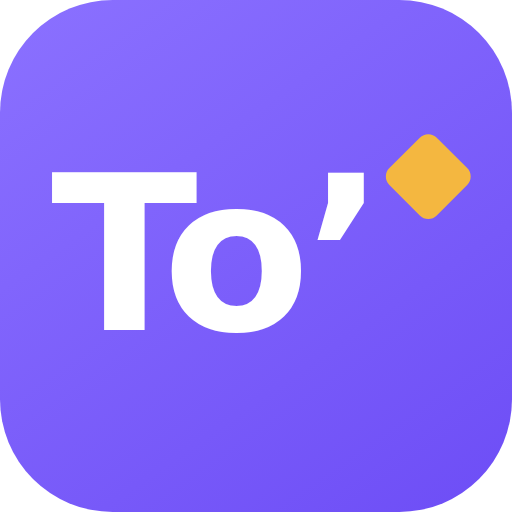
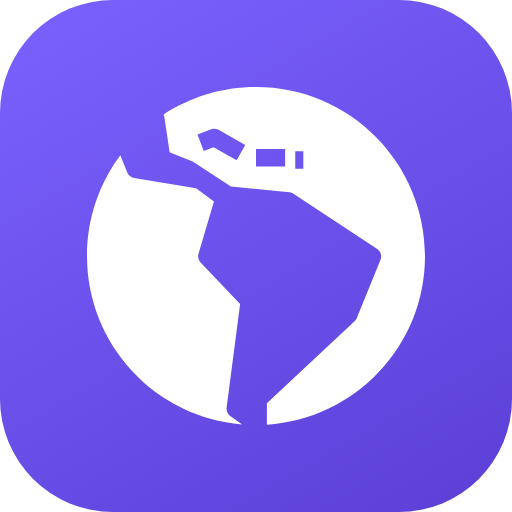
Logotipo real en toda la app + pie del móvil apilado
PIE DEL MÓVIL: los enlaces legales se iban a un segundo renglón pegados al
borde derecho y parecía un error. En el teléfono el pie ahora se apila a la
izquierda —marca, copyright, enlaces—; a partir de 600px vuelve a la fila
única.

LOGOTIPO: hasta hoy la marca terminaba en un rombo ámbar que era un marcador
de posición. El logotipo real (el globo con América en negativo) pasa a ser
`LogoMark` en `components/ui`, una sola pieza que usan la portada, la cabecera
de la app, la pantalla de entrar, el alta de negocio, las páginas legales, el
panel de negocio y el panel de administración. Sobre fondo oscuro va en el
morado claro de la marca, no en el de marca, que ahí no contrasta.

ICONOS: `scripts/make-brand-assets.mjs` genera los seis PNG a partir del MISMO
trazo — pestaña del navegador, iconos de instalación 192/512, maskable, icono
de iOS e imagen para redes. Antes eran un "To'" con un rombo dibujado aparte y
no había forma de regenerarlos. La receta (fondo morado en degradado +
logotipo blanco) se eligió comparando cuatro variantes: es la única que se
sigue leyendo a 32px, el tamaño real de la pestaña.

Dos detalles que costaron y quedan documentados en el script: la tipografía se
incrusta en base64 porque el HTML se inyecta con setContent y desde
`about:blank` el navegador no carga hojas de estilo de otro origen (la imagen
para redes salía con una serif de reserva, y fallaba en silencio); y hay que
esperar a `document.fonts.ready`, que `networkidle` no garantiza.
[…]

diff --git a/apps/web/src/screens/Landing.tsx b/apps/web/src/screens/Landing.tsx
@@ -49,6 +49,7 @@ import { useApp } from '@/lib/state';
 import { useAuth } from '@/lib/auth';
 import { FEED_SAMPLE, FEED_KIND } from '@/lib/landing';
 import { CityModal } from '@/components/CityModal';
+import { LogoMark } from '@/components/ui';
 
 type Vertical = 'all' | 'food' | 'serv' | 'evt' | 'rent' | 're' | 'auto' | 'job';
 
@@ -174,23 +175,19 @@ export function LandingScreen() {
 
   const firstName = (profile?.display_name ?? '').trim().split(' ')[0];
 
-  // Marca: el logotipo del handoff (`uploads/logo_tolatino_color.svg`, 482×482,
-  // trazo único) SIEMPRE después de la palabra, como indica §Icons.
-  const LogoMark = () => (
-    <svg viewBox="0 0 482 482" fill="none" aria-hidden focusable="false"
-         style={{ width: 'calc(var(--bs) * .88)', height: 'calc(var(--bs) * .88)', marginLeft: 'calc(var(--bs) * .25)', alignSelf: 'center', flex: 'none' }}>
-      <path fill="#7B61FF" d="M241 0C374.101 0 482 107.899 482 241C482 368.894 382.378 473.519 256.5 481.509V450.929L381.533 334.135C382.856 332.899 383.895 331.39 384.577 329.714L418.577 246.214C420.824 240.696 418.864 234.358 413.894 231.072L294.394 152.072C292.802 151.02 290.991 150.347 289.102 150.103L288.723 150.06L205.263 141.857L151.825 107.028C151.144 106.585 150.422 106.208 149.668 105.904L117.808 93.0771L110.363 43.1562C110.159 41.785 109.729 40.4722 109.104 39.2637C147 14.4373 192.314 0 241 0ZM57.3691 122.079C58.9823 126.176 62.6321 129.122 66.9775 129.835L155.481 144.344L181.041 163.33L159.012 237.961C157.746 242.248 158.867 246.885 161.95 250.122L218.336 309.304L199.104 457.391C198.508 461.983 200.499 466.528 204.279 469.203L221.23 481.199C97.3773 471.143 0 367.444 0 241C0 187.108 17.6887 137.348 47.5771 97.209L57.3691 122.079ZM297 91.5V116.5H308.5V91.5H297ZM241 113.5H282.5V88.5H241V113.5ZM187.655 61.1211C184.505 59.3389 180.743 59.0113 177.341 60.2119L177.013 60.333L157.513 67.833L166.487 91.167L180.48 85.7842L213.345 104.379L225.655 82.6211L187.655 61.1211Z" />
-    </svg>
-  );
-  // El tamaño viaja como variable CSS (`--bs`) en vez de como `fontSize` en
-  // línea: así una media query puede encogerlo en teléfonos estrechos, donde la
-  // marca + el idioma + el botón de negocio no caben en la barra.
+  // Marca: palabra + logotipo. El trazo vive en `components/ui` (LogoMark), que
+  // es la MISMA pieza que usan la cabecera de la app, el panel de negocio, el
+  // panel de administración y los iconos generados. Aquí el tamaño viaja como
+  // variable CSS (`--bs`) para que una media query pueda encogerlo en teléfonos
+  // estrechos, donde la marca + el idioma + el botón de negocio no caben.
   const Brand = ({ size }: { size: number }) => (
     <span className="tl-brand flex flex-none items-baseline"
           style={{ letterSpacing: '-.03em', ['--bs' as string]: `${size}px` }}>
       <span className="font-extrabold text-ink" style={{ fontSize: 'var(--bs)' }}>To&rsquo;</span>
       <span className="font-extrabold text-primary" style={{ fontSize: 'var(--bs)' }}>Latino</span>
-      <LogoMark />
+      <span className="tl-logo self-center" style={{ marginLeft: 'calc(var(--bs) * .25)' }}>
+        <LogoMark size={Math.round(size * 0.88)} />
+      </span>
     </span>
   );
 
@@ -513,13 +510,17 @@ export function LandingScreen() {
 
       {/* ═════════════ PIE ═════════════ */}
       <footer className={`bg-page pt-[clamp(40px,6vw,72px)] ${gutter}`}>
-        <div className="mx-auto flex max-w-[1080px] flex-wrap items-center gap-[14px] pt-5"
+        {/* En el teléfono el pie se APILA a la izquierda —marca, copyright,
+            enlaces—: en una sola fila los enlaces legales se iban a un segundo
+            renglón pegados al borde derecho y parecía un error de maquetación.
+            A partir de 600px vuelve a la fila única del handoff. */}
+        <div className="mx-auto flex max-w-[1080px] flex-col items-start gap-3 pt-5 min-[600px]:flex-row min-[600px]:flex-wrap min-[600px]:items-center min-[600px]:gap-[14px]"
              style={{ borderTop: '1px solid rgba(30,27,46,.07)', paddingBottom: 'calc(24px + env(safe-area-inset-bottom))' }}>
           <Brand size={18} />
           <span className="text-[11.5px] font-semibold text-muted">© {new Date().getFullYear()} To&rsquo;Latino</span>
           {/* Los enlaces legales no están en el handoff, pero la ley sí los pide
               y las dos páginas ya existen: se añaden sin tocar su composición. */}
-          <nav aria-label={L('Legal', 'Legal')} className="ml-auto flex flex-wrap items-center gap-x-4 gap-y-1">
+          <nav aria-label={L('Legal', 'Legal')} className="flex flex-wrap items-center gap-x-4 gap-y-1 min-[600px]:ml-auto">
             <a href="/terminos/" className="tl-focus text-[11.5px] font-semibold text-muted hover:text-primary-dark">{L('Términos', 'Terms')}</a>
             <a href="/privacidad/" className="tl-focus text-[11.5px] font-semibold text-muted hover:text-primary-dark">{L('Privacidad', 'Privacy')}</a>
           </nav>
@@ -647,6 +648,7 @@ export function LandingScreen() {
            porque el botón de negocio es una de las dos conversiones de la página. */
         @media (max-width: 400px) {
           .tl-brand { --bs: 19px !important; }
+          .tl-logo svg { width: 17px !important; height: 17px !important; }
           .tl-bar { gap: 8px !important; padding-left: 14px !important; padding-right: 14px !important; }
           .tl-langpill button { padding-left: 10px !important; padding-right: 10px !important; }
           .tl-btn-biz { padding: 9px 10px !important; gap: 5px !important; }

diff --git a/apps/web/src/components/ui.tsx b/apps/web/src/components/ui.tsx
@@ -6,8 +6,28 @@ import { IconX as X } from '@tabler/icons-react';
 import type { CSSProperties, ReactNode } from 'react';
 import { useScrollLock } from '@/lib/scrollLock';
 
-/** CSS wordmark: To'(ink) + Latino(purple) + amber diamond. */
+/**
+ * Logotipo de la marca — el globo con América en negativo.
+ *
+ * FUENTE ÚNICA: este trazo es el mismo que `apps/web/public/logo-tolatino.svg`
+ * y el que usa `scripts/make-brand-assets.mjs` para generar los iconos y la
+ * imagen para redes. Va INCRUSTADO (no `<img src>`) para que herede el color
+ * del sitio donde se ponga y no cueste una petición más.
+ *
+ * Sustituye al rombo ámbar que se usaba de marcador mientras no había logotipo.
+ */
+export function LogoMark({ size = 16, color = '#7B61FF', className }: { size?: number; color?: string; className?: string }) {
+  return (
+    <svg viewBox="0 0 482 482" fill="none" aria-hidden focusable="false" className={className}
+         style={{ width: size, height: size, flex: 'none' }}>
+      <path fill={color} d="M241 0C374.101 0 482 107.899 482 241C482 368.894 382.378 473.519 256.5 481.509V450.929L381.533 334.135C382.856 332.899 383.895 331.39 384.577 329.714L418.577 246.214C420.824 240.696 418.864 234.358 413.894 231.072L294.394 152.072C292.802 151.02 290.991 150.347 289.102 150.103L288.723 150.06L205.263 141.857L151.825 107.028C151.144 106.585 150.422 106.208 149.668 105.904L117.808 93.0771L110.363 43.1562C110.159 41.785 109.729 40.4722 109.104 39.2637C147 14.4373 192.314 0 241 0ZM57.3691 122.079C58.9823 126.176 62.6321 129.122 66.9775 129.835L155.481 144.344L181.041 163.33L159.012 237.961C157.746 242.248 158.867 246.885 161.95 250.122L218.336 309.304L199.104 457.391C198.508 461.983 200.499 466.528 204.279 469.203L221.23 481.199C97.3773 471.143 0 367.444 0 241C0 187.108 17.6887 137.348 47.5771 97.209L57.3691 122.079ZM297 91.5V116.5H308.5V91.5H297ZM241 113.5H282.5V88.5H241V113.5ZM187.655 61.1211C184.505 59.3389 180.743 59.0113 177.341 60.2119L177.013 60.333L157.513 67.833L166.487 91.167L180.48 85.7842L213.345 104.379L225.655 82.6211L187.655 61.1211Z" />
+    </svg>
+  );
+}
+
+/** Marca completa: To'(tinta) + Latino(morado) + logotipo. */
 export function Wordmark({ size = 'md', onClick }: { size?: 'sm' | 'md' | 'lg'; onClick?: () => void }) {
+  const fs = size === 'lg' ? 21 : size === 'md' ? 20 : 18;
   const px = size === 'lg' ? 'text-[21px]' : size === 'md' ? 'text-[20px]' : 'text-[18px]';
   return (
     <span
@@ -16,7 +36,7 @@ export function Wordmark({ size = 'md', onClick }: { size?: 'sm' | 'md' | 'lg'; 
     >
       <span className="text-ink">To&rsquo;</span>
       <span className="text-primary">Latino</span>
-      <span className="ml-1 inline-block h-1.5 w-1.5 rotate-45 self-center bg-amber" />
+      <LogoMark size={Math.round(fs * 0.88)} className="ml-1 self-center" />
     </span>
   );
 }

diff --git a/apps/web/src/screens/Admin.tsx b/apps/web/src/screens/Admin.tsx
@@ -28,7 +28,7 @@ import {
 import type { Icon as TablerIcon } from '@tabler/icons-react';
 import { useLang } from '@/lib/i18n';
 import { useAuth } from '@/lib/auth';
-import { SkeletonList } from '@/components/ui';
+import { LogoMark, SkeletonList } from '@/components/ui';
 import { Toast } from '@/screens/negocio/modules/_page';
 import { Pill, Panel, Stat, FilterChip, ChipRow, Empty, BlockTitle, Toggle, type Tone } from '@/screens/admin/ui';
 import {
@@ -369,7 +369,9 @@ export function AdminScreen() {
         <div className="flex items-baseline gap-1 border-b border-white/10 px-5 py-4">
           <span className="text-[19px] font-extrabold tracking-[-.02em] text-white">To&rsquo;</span>
           <span className="text-[19px] font-extrabold tracking-[-.02em] text-primary-soft">Latino</span>
-          <span className="ml-1 h-1.5 w-1.5 rotate-45 self-center bg-amber" />
+          {/* Sobre la barra oscura el morado de marca no contrasta: el logotipo
+              va en el mismo tono claro que la palabra. */}
+          <LogoMark size={17} color="#9B85FF" className="ml-1 self-center" />
         </div>
         <div className="no-scrollbar flex-1 overflow-y-auto">{nav}</div>
         <div className="flex items-center gap-2.5 border-t border-white/10 px-4 py-3">
@@ -409,7 +411,7 @@ export function AdminScreen() {
           <button aria-label={L('Cerrar', 'Close')} onClick={() => setNavOpen(false)} className="absolute inset-0 cursor-pointer bg-[rgba(20,15,40,.55)]" />
           <div className="absolute left-0 top-0 flex h-full w-[262px] flex-col bg-ink shadow-pop">
             <div className="flex items-center justify-between border-b border-white/10 px-4 py-3.5">
-              <div className="flex items-baseline gap-1"><span className="text-[16px] font-extrabold text-white">To&rsquo;</span><span className="text-[16px] font-extrabold text-primary-soft">Latino</span></div>
+              <div className="flex items-baseline gap-1"><span className="text-[16px] font-extrabold text-white">To&rsquo;</span><span className="text-[16px] font-extrabold text-primary-soft">Latino</span><LogoMark size={14} color="#9B85FF" className="ml-0.5 self-center" /></div>
               <button onClick={() => setNavOpen(false)} className="flex h-8 w-8 cursor-pointer items-center justify-center rounded-full bg-white/10"><X size={15} stroke={2.4} className="text-white" /></button>
             </div>
             <div className="no-scrollbar flex-1 overflow-y-auto">{nav}</div>

diff --git a/apps/web/src/screens/negocio/Panel.tsx b/apps/web/src/screens/negocio/Panel.tsx
@@ -16,7 +16,7 @@ import { useScrollLock } from '@/lib/scrollLock';
 import { useBizAdmin, rubroFromCat } from '@/lib/bizAdmin';
 import { useAuth } from '@/lib/auth';
 import { CAT, type CatKey } from '@/lib/tiles';
-import { VerifiedBadge } from '@/components/ui';
+import { LogoMark, VerifiedBadge } from '@/components/ui';
 import { LangToggle } from '@/components/AppHeader';
 import { CAT_INFO, activeMods, buildNav, pageHead, type Mods, type PanelCtx, type Rubro, type TabKey, type Tier } from '@/screens/negocio/tabs';
 import { HoursReminders } from '@/screens/negocio/HoursReminders';
@@ -526,6 +526,10 @@ export function PanelScreen() {
           <button onClick={() => router.push('/comunidad')} className="flex cursor-pointer items-baseline">
             <span className={`text-[18px] font-extrabold tracking-[-.03em] ${isInicio ? 'text-white lg:text-ink' : 'text-ink'}`}>To&rsquo;</span>
             <span className={`text-[18px] font-extrabold tracking-[-.03em] ${isInicio ? 'text-amber lg:text-primary' : 'text-primary'}`}>Latino</span>
+            {/* En la pantalla de Inicio la cabecera es oscura en móvil y clara en
+                escritorio, así que el logotipo cambia de tono con ella. */}
+            <LogoMark size={16} color={isInicio ? '#F4B740' : '#7B61FF'} className="ml-1 self-center lg:hidden" />
+            <LogoMark size={16} className="ml-1 hidden self-center lg:block" />
             <span className={`ml-1.5 text-[10.5px] font-bold md:hidden ${isInicio ? 'text-[rgba(255,255,255,.55)]' : 'text-muted'}`}>{L('Negocios', 'Business')}</span>
           </button>
           <span className="hidden rounded-full bg-lilac px-2.5 py-1 text-[10px] font-extrabold uppercase tracking-[.04em] text-primary-dark md:inline">
